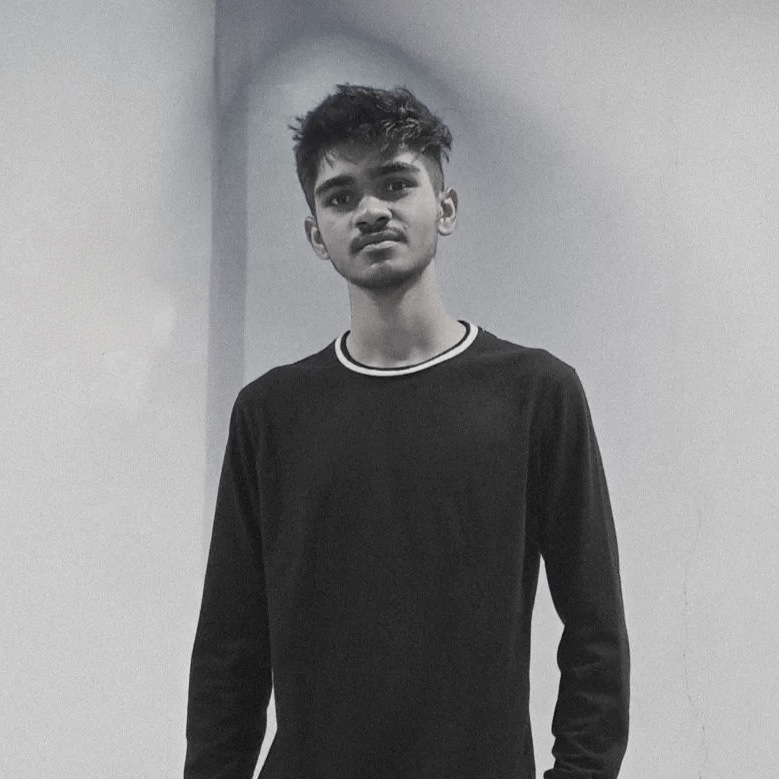
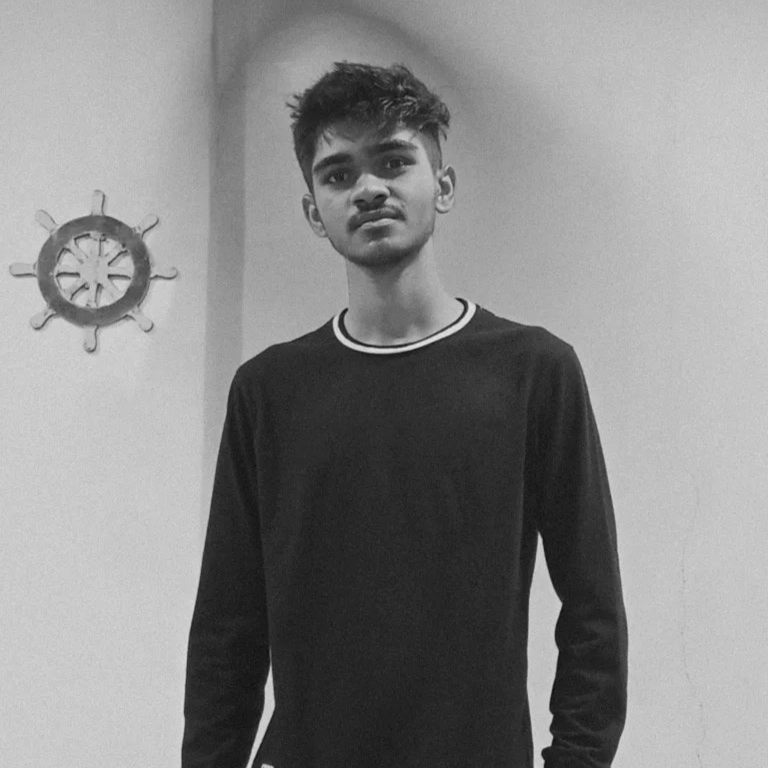
update description hover and added engineering

diff --git a/src/components/home/Data.jsx b/src/components/home/Data.jsx
@@ -88,7 +88,7 @@ const Data = () => {
           <div className="subline">Programmer</div>
           <div className="subline">Developer</div>
         </h3>
-        <p className="home__description">Hey, there! My name is Vedant and I am a 21-year-old <span className='home__description-highlight'>Computer Science student</span>. I am particularly passionate about <span className='home__description-highlight'>web development</span>, and this website is an attempt to showcase my skills in that domain. </p>
+        <p className="home__description">Hey, there! My name is Vedant and I am a 21-year-old <span className='home__description-highlight'>Computer Science  Engineering student</span>. I am particularly passionate about <span className='home__description-highlight'>web development</span>, and this website is an attempt to showcase my skills in that domain. </p>
 
         <a href="mailto:vedantpatil2002@gmail.com?subject=Hello from Abstract!&body=Just popped in to say hello" className='button button--flex sayhelloButton '>Say Hello
         <svg

diff --git a/src/components/home/home.css b/src/components/home/home.css
@@ -64,6 +64,20 @@
     height: 250px;
     /* animation: profile__animate 8s ease-in-out infinite 1s; */
     border-radius: 20px;
+    transition: .4s;
+}
+.home__img:hover{
+    background: url(../../assets/color_profile.jpg);
+    background-repeat: no-repeat;
+    background-position: center;
+    background-size: cover;
+    box-shadow: inset 0 0 0 9px rgba(134, 84, 134, 0.09);
+    order: 1;
+    justify-self:center ;
+    width: 250px;
+    height: 250px;
+    /* animation: profile__animate 8s ease-in-out infinite 1s; */
+    border-radius: 20px;
 }
 
 /* @keyframes profile__animate {
@@ -233,6 +247,7 @@
 .home__description:hover
 {
     cursor: pointer;
+    color: rgb(104,91,164,.7);
 }
 
 .home__description-highlight

diff --git a/src/components/about/About.jsx b/src/components/about/About.jsx
@@ -14,7 +14,7 @@ const About = () => {
             <div className="about__data">
                 <Info/>
 
-                <p className='about__description'>My name is Vedant Patil and I am a computer engineering student at Pimpri Chinchwad College of Engineering in Pune. 
+                <p className='about__description'>My name is Vedant Patil and I am a third year computer engineering student at Pimpri Chinchwad College of Engineering in Pune. 
                 </p>
                 <a download=""  className="button button--flex">Download CV
                 {/* add ....  href = {CV} ....after download="" in above line */}

diff --git a/src/components/header/header.css b/src/components/header/header.css
@@ -5,7 +5,7 @@
     top: 0;
     bottom: 0;
     z-index: var(--z-fixed);
-    background-image: linear-gradient(rgb(134,84,134,.5),rgb(0,0,0,0) );
+    background-image: linear-gradient(rgb(104,91,164,.5),rgb(0,0,0,0) );
     
 
 }
@@ -130,7 +130,7 @@ for smaller devices */
 @media screen and (max-width: 769px) {
     .header
     {
-        background-image: linear-gradient(rgb(0,0,0,0) , rgb(134,84,134,.5));
+        background-image: linear-gradient(rgb(0,0,0,0) , rgb(104,91,164,.5));
 
     }
 }

diff --git a/src/App.css b/src/App.css
@@ -150,12 +150,13 @@ img {
 /*=============== BUTTONS ===============*/
 .button {
   display: inline-block;
-  background-color: var(--title-color);
+  background-color: ;
+  background-color: rgb(104, 91, 164);
   color: var(--container-color);
   padding: 1.25rem 2rem;
   border-radius: 1rem;
   font-weight: var(--font-medium);
-  box-shadow: inset 0 0 0 0 rgb(104, 91, 164);
+  box-shadow: inset 0 0 0 0 var(--title-color);
   transition: ease-out 0.3s;
 }
 

diff --git a/src/components/home/ScrollDown.jsx b/src/components/home/ScrollDown.jsx
@@ -1,5 +1,5 @@
 import React from 'react'
-
+import "./home.css"
 const ScrollDown = () => {
   return (
     <div className='home__scroll'>

diff --git a/src/components/about/about.css b/src/components/about/about.css
@@ -5,7 +5,7 @@
 }
 
 .about__img{
-    width: 300px;
+    width: 250px;
     border-radius: 1.5rem;
     justify-self: center;
 }
